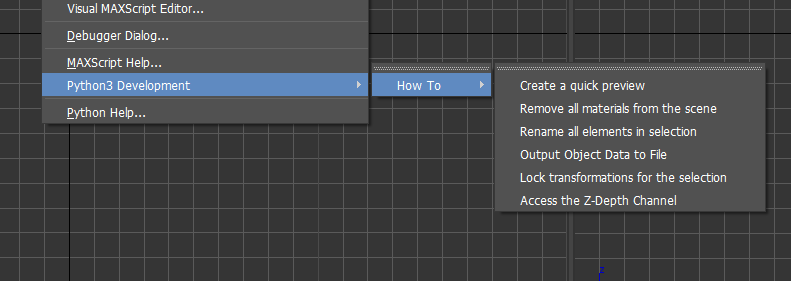
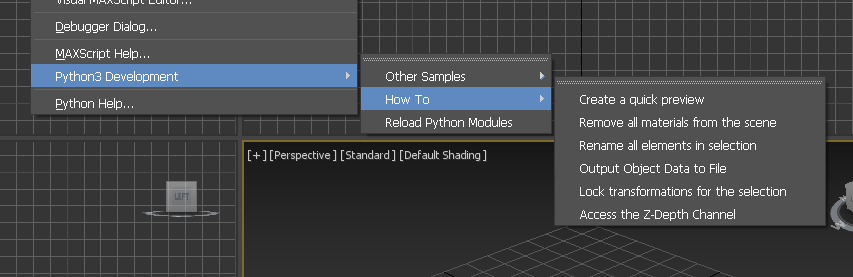
fix install problems

Changed region(s): [[0.0, 0.0, 1.0, 1.0], [0.9709, 0.4332, 1.0, 0.6065]]

diff --git a/threadprogressbar/threadprogressbar/__init__.py b/threadprogressbar/threadprogressbar/__init__.py
@@ -18,6 +18,6 @@ def startup():
         "threadprogressbar",
         "howtos",
         threadprogressbar,
-        menu=[ "&Scripting", "Python3 Development", "Sample"],
+        menu=[ "&Scripting", "Python3 Development", "Other Samples"],
         text="Update a progress bar from a thread",
         tooltip="Update a progress bar from a thread")

diff --git a/reloadmod/reloadmod/__init__.py b/reloadmod/reloadmod/__init__.py
@@ -10,7 +10,7 @@ def startup():
     Hook the funtion to a menu item.
     """
     menuhook.register(
-        "Reload Python Modules",
+        "reloadmod",
         "python3devtools",
         python_reload,
         menu=[ "&Scripting", "Python3 Development"],
